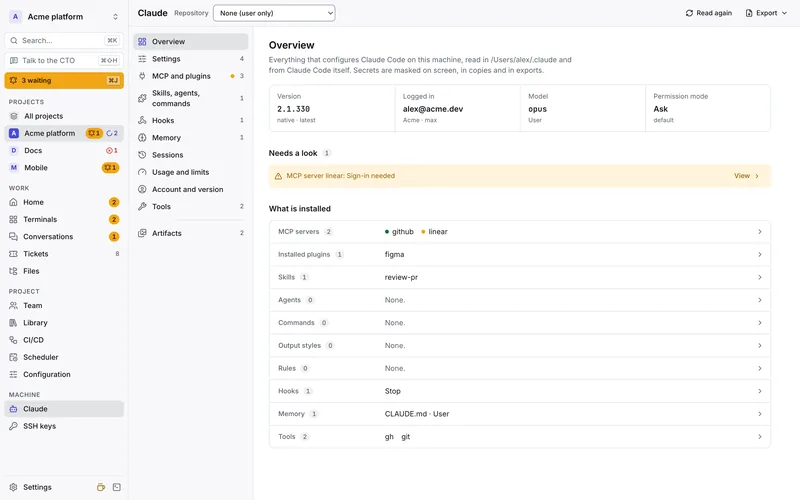
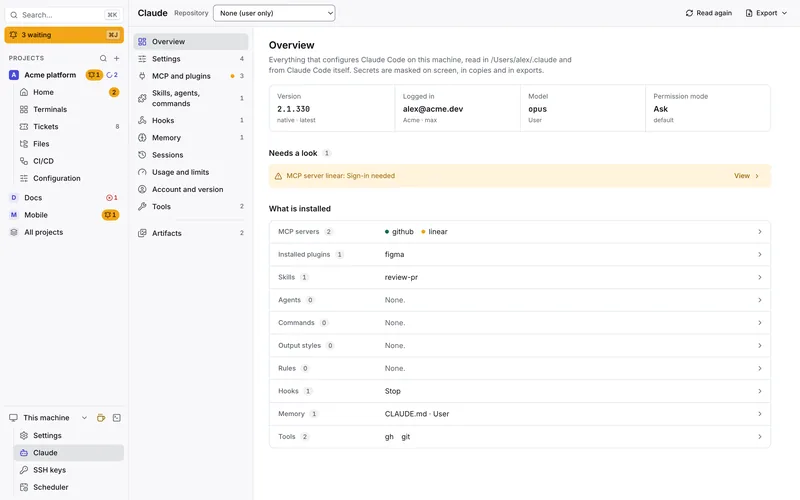
Site and README: captures on the final UX pass 3 (project navigation, lighter UI)
Claude-Session: https://claude.ai/code/session_014gbuwdx2GtERBWdptoTFFj

Changed region(s): [[0.0, 0.03, 0.1562, 0.99], [0.125, 0.39, 0.1562, 0.48], [0.125, 0.96, 0.1562, 0.99]]

diff --git a/README.md b/README.md
@@ -127,7 +127,7 @@ path = "~/Projects/acme-front"
 ## Getting started
 
 1. **Open TermF.** It finds the git repositories on your machine and sorts them by activity.
-2. **Create a project** from a few repositories (`⌘O`, then New project). The setup assistant opens once: it reads the repositories without changing anything, asks the questions only you can answer, then proposes the team, skills, ticket sources, worktree recipe and CI, item by item. Trusting the repositories in Claude Code is opt-in.
+2. **Create a project** from a few repositories, with the + next to Projects in the navigation. The setup assistant opens once: it reads the repositories without changing anything, asks the questions only you can answer, then proposes the team, skills, ticket sources, worktree recipe and CI, item by item. Trusting the repositories in Claude Code is opt-in.
 3. **Talk to the CTO** on the project's Home (`⌘⇧H` from anywhere): "Where is the team at?", "Start the team on #482". Or open Claude Code in a terminal with `⌘T`.
 4. **Put the team on a ticket**: ask the CTO, or click With the team next to a ticket in Tickets. Answer the plan's questions, approve the plan, follow the run on its page, then Deliver…: TermF shows the files and commits, and opens the pull request once you confirm.
 
